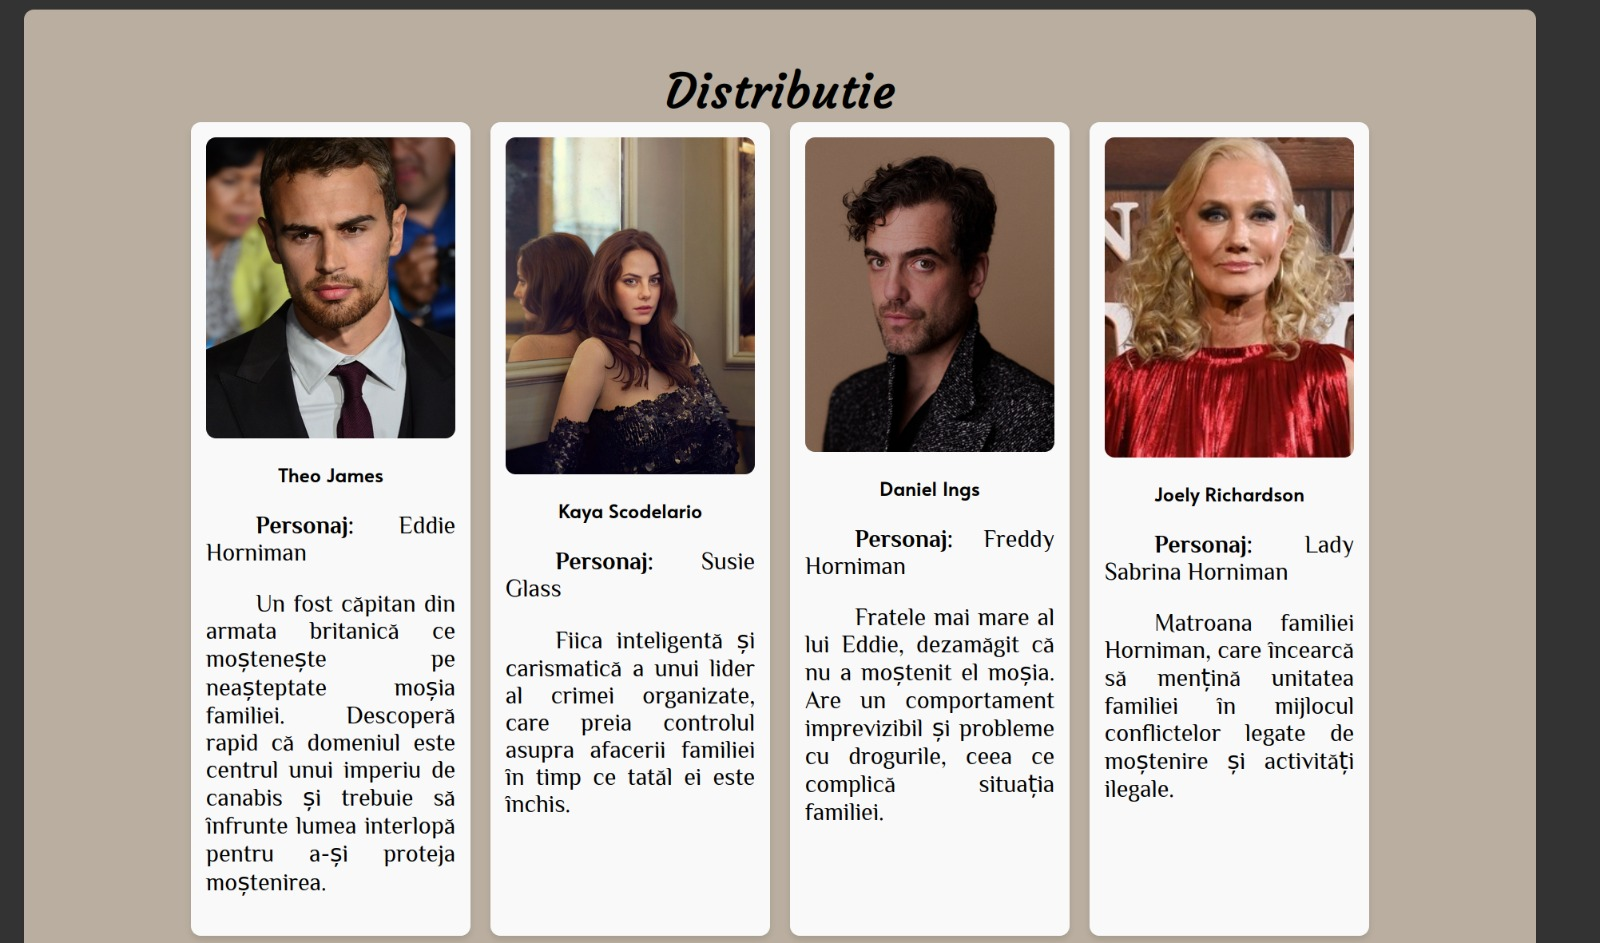
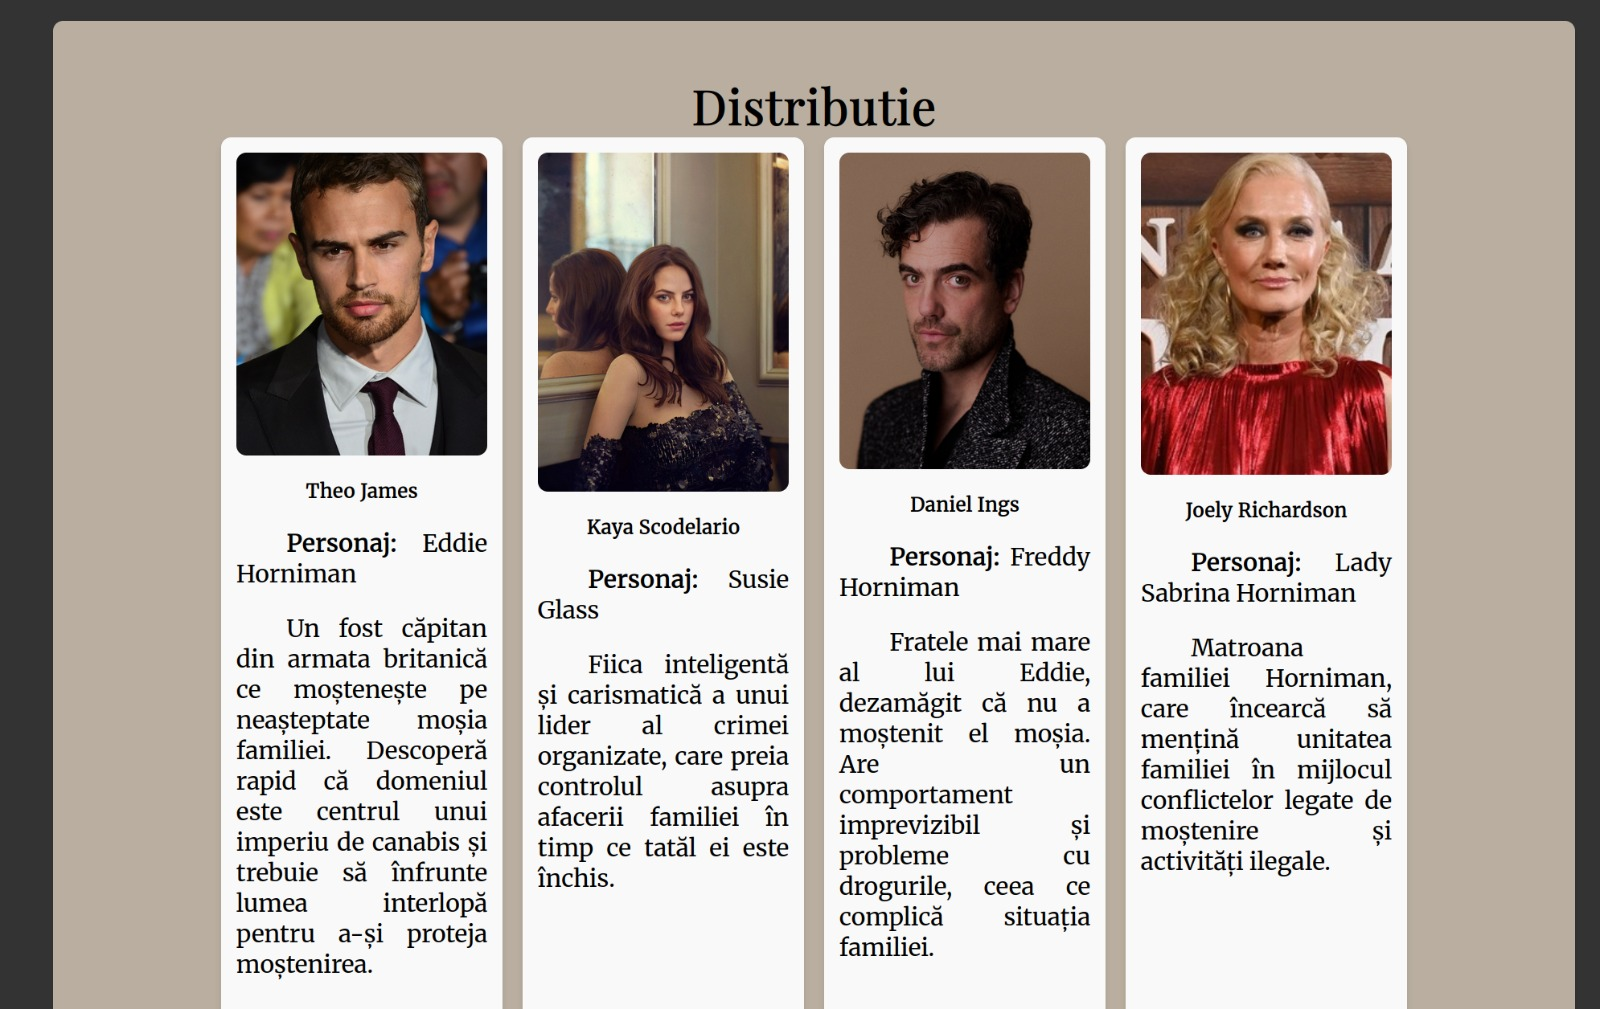
made the final touches

diff --git a/static/styles/the_gentlemen.css b/static/styles/the_gentlemen.css
@@ -1,92 +1,90 @@
 body {
-    font-family: Arial, sans-serif;
+    font-family: 'Merriweather', serif;
     text-align: center;
     background-image: linear-gradient(rgba(0, 0, 0, 0.8), rgba(0, 0, 0, 0.8));
     background-size: cover;
-    align-content: center;
-}
-
-p {
-    font-family: "Philosopher", sans-serif;
-    font-weight: 400;
-    font-style: normal;
-    font-size: 1.4em;
+    padding: 30px;
+    margin: 0;
 }
 
 h1 {
-    font-family: "Courgette", cursive;
+    font-family: 'Playfair Display', serif;
     font-size: 3em;
-    margin-bottom: 40px;
+    margin-bottom: 20px;
+    color: #2c2c2c;
 }
 
-
 .container {
-    position: absolute;
-    top: 50%;
-    left: 50%;
-    transform: translate(-50%, -50%);
-    width: 60vw;
-    height: auto;
-    margin: auto auto;
-    padding: 15px 20px;
+    max-width: 1000px;
+    margin: 0 auto;
+    padding: 40px;
     background: rgba(254, 237, 214, 0.66);
-    border-radius: 10px;
-    box-shadow: 0 4px 8px rgba(0, 0, 0, 0.1);
-    text-align: center;
-    display: flex;
-    flex-direction: column;
-
+    border-radius: 15px;
+    box-shadow: 0 4px 12px rgba(0, 0, 0, 0.2);
+    text-align: left;
 }
 
 .container-info {
     display: flex;
-}
-
-.info {
-    flex-grow: 0;
-    align-content: center;
-}
-
-.container-info section {
-    flex-basis: 50%;
+    flex-wrap: wrap;
+    gap: 30px;
+    justify-content: center;
+    align-items: center;
 }
 
 .poster {
-    width: 65%;
-    margin-bottom: 20px;
-    border-radius: 8px;
-    box-shadow: 0 5px 10px 10px rgba(0, 0, 0, 0.2);
+    width: 300px;
+    border-radius: 12px;
+    box-shadow: 0 5px 10px rgba(0, 0, 0, 0.3);
 }
 
-.details {
-    margin-bottom: 20px;
-    margin-top: -75px;
+.info {
+    flex: 1;
+    min-width: 280px;
+}
+
+.details p {
+    font-family: 'Merriweather', serif;
+    font-size: 1.1em;
+    margin: 8px 0;
+    line-height: 1.6;
+}
+
+.btn-group {
+    margin-top: 20px;
+    display: flex;
+    gap: 20px;
+    flex-wrap: wrap;
 }
 
 .btn-group a {
-    display: inline-block;
-    margin: 5px;
-    padding: 10px 20px;
-    background-color: #333;
-    color: white;
     text-decoration: none;
-    border-radius: 5px;
-    font-family: "Alata", sans-serif;
-    font-size: 1.4em;
+    color: #fff;
+    background-color: #333;
+    padding: 12px 24px;
+    border-radius: 30px;
+    font-size: 1.1em;
+    font-family: 'Merriweather', serif;
+    transition: all 0.3s ease;
+    box-shadow: 0 3px 6px rgba(0, 0, 0, 0.2);
 }
 
 .btn-group a:hover {
     background-color: #555;
+    transform: scale(1.05);
 }
 
 a.back {
     display: inline-block;
-    margin-top: 20px;
+    margin-top: 25px;
     text-decoration: none;
-    color: #333;
-    background-color: #ddd;
+    color: #fff;
+    background-color: #333;
     padding: 10px 20px;
-    border-radius: 5px;
+    border-radius: 25px;
+    font-family: 'Merriweather', serif;
+    font-size: 1em;
+    transition: background-color 0.3s ease;
 }
 
 a.back:hover {

diff --git a/static/styles/attributes_gentlemen.css b/static/styles/attributes_gentlemen.css
@@ -1,5 +1,5 @@
 body {
-    font-family: Arial, sans-serif;
+    font-family: 'Merriweather', serif; /* or 'Playfair Display', serif */
     text-align: center;
     background-image: linear-gradient(rgba(0, 0, 0, 0.8), rgba(0, 0, 0, 0.8));
     background-size: cover;
@@ -8,20 +8,25 @@ body {
 }
 
 h1 {
-    font-family: "Courgette", cursive;
+    font-family: 'Playfair Display', serif; /* formal, elegant header */
     font-size: 3em;
     margin-bottom: 0px;
-
 }
 
 p {
-    font-family: "Philosopher", sans-serif;
+    font-family: 'Merriweather', serif;
     font-weight: 400;
     font-style: normal;
     font-size: 1.5em;
     text-align: justify;
     text-indent: 50px;
 }
+
+h3 {
+    font-family: 'Merriweather', serif;
+    font-size: 1.2em;
+}
+
 
 .container {
     position: absolute;
@@ -43,17 +48,23 @@ p {
 
 a.back {
     display: inline-block;
-    margin-top: 20px;
+    margin-top: 25px;
     text-decoration: none;
-    color: #333;
-    background-color: #ddd;
-    padding: 10px 20px;
-    border-radius: 5px;
+    color: white;
+    background-color: #333;
+    padding: 12px 24px;
+    border-radius: 30px;
+    font-family: "Merriweather", serif;
+    font-size: 1.2em;
+    transition: all 0.3s ease;
+    box-shadow: 0 3px 6px rgba(0, 0, 0, 0.2);
 }
 
 a.back:hover {
-    background-color: #ccc;
+    background-color: #555;
+    transform: scale(1.05);
 }
+
 
 .cast-list {
     display: flex;
@@ -75,9 +86,4 @@ a.back:hover {
     width: 100%;
     height: auto;
     border-radius: 10px;
-}
-
-h3 {
-    font-family: 'Alata', sans-serif;
-    font-size: 1.2em;
 }

diff --git a/templates/gentlemen_cast.html b/templates/gentlemen_cast.html
@@ -5,15 +5,15 @@
     <meta charset="UTF-8">
     <title>Cast - The Gentlemen</title>
     <link rel="icon" type="image/png" href="{{ url_for('static', filename='images/icon.png') }}">
-    <link rel="stylesheet" href="{{ url_for('static', filename='styles/attributes.css') }}">
-    <link
-        href="https://fonts.googleapis.com/css2?family=Alata&family=Courgette&family=Philosopher:ital,wght@0,400;0,700;1,400;1,700&display=swap"
-        rel="stylesheet">
+    <link rel="stylesheet" href="{{ url_for('static', filename='styles/attributes_gentlemen.css') }}">
+    <link href="https://fonts.googleapis.com/css2?family=Merriweather&family=Playfair+Display&display=swap" rel="stylesheet">
+
 </head>
 
 <body>
     <div class="container" style="width: 70vw; position: relative; transform: translate(0, 0); top:0; left: 0;">
         <h1>Distributie</h1>
+        <br>
         
          <div class="cast-list">
             {% for member in cast %}

diff --git a/templates/gentlemen_description.html b/templates/gentlemen_description.html
@@ -5,10 +5,9 @@
     <meta charset="UTF-8">
     <title>Descriere - The Gentlemen</title>
     <link rel="icon" type="image/png" href="{{ url_for('static', filename='images/icon.png') }}">
-    <link rel="stylesheet" href="{{ url_for('static', filename='styles/attributes.css') }}">
-    <link
-        href="https://fonts.googleapis.com/css2?family=Alata&family=Courgette&family=Philosopher:ital,wght@0,400;0,700;1,400;1,700&display=swap"
-        rel="stylesheet">
+    <link rel="stylesheet" href="{{ url_for('static', filename='styles/attributes_gentlemen.css') }}">
+    <link href="https://fonts.googleapis.com/css2?family=Merriweather&family=Playfair+Display&display=swap" rel="stylesheet">
+
 </head>
 
 <body>

diff --git a/templates/the_gentlemen.html b/templates/the_gentlemen.html
@@ -31,7 +31,7 @@
                     <a href="{{ url_for('show_gentlemen_description') }}">Descriere</a>
                     <a href="{{ url_for('show_gentlemen_cast') }}">Distribuție</a>
                 </div>
-                <div style="font-family: 'Alata', sans-serif; font-size: 1.4em;">
+                <div class="back-link">
                     <a href="{{ url_for('index') }}" class="back">Înapoi la pagina principală</a>
                 </div>
             </div>
